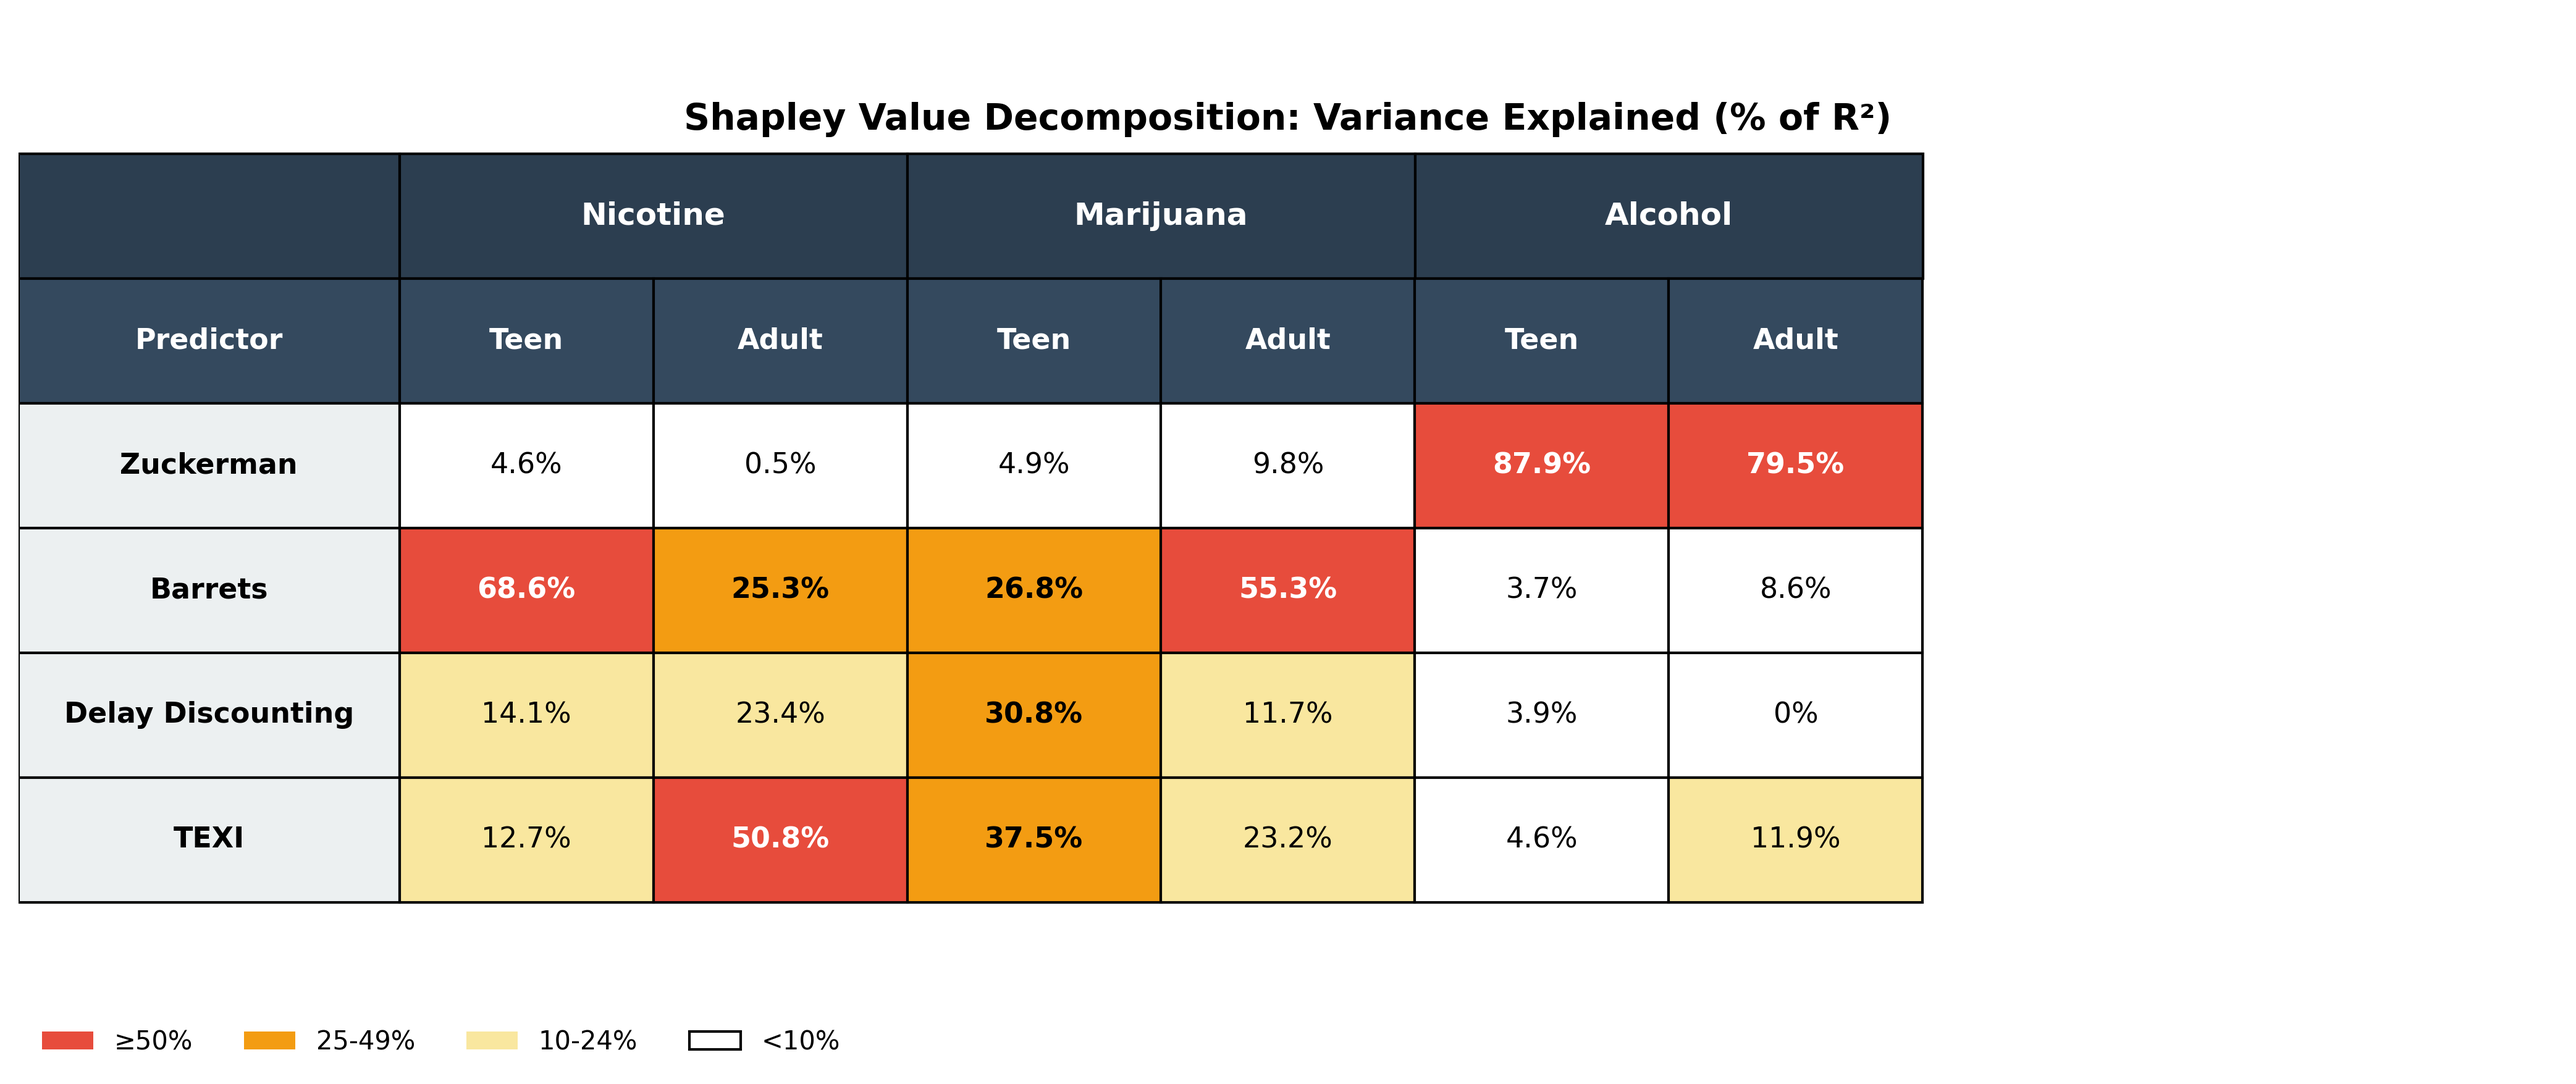
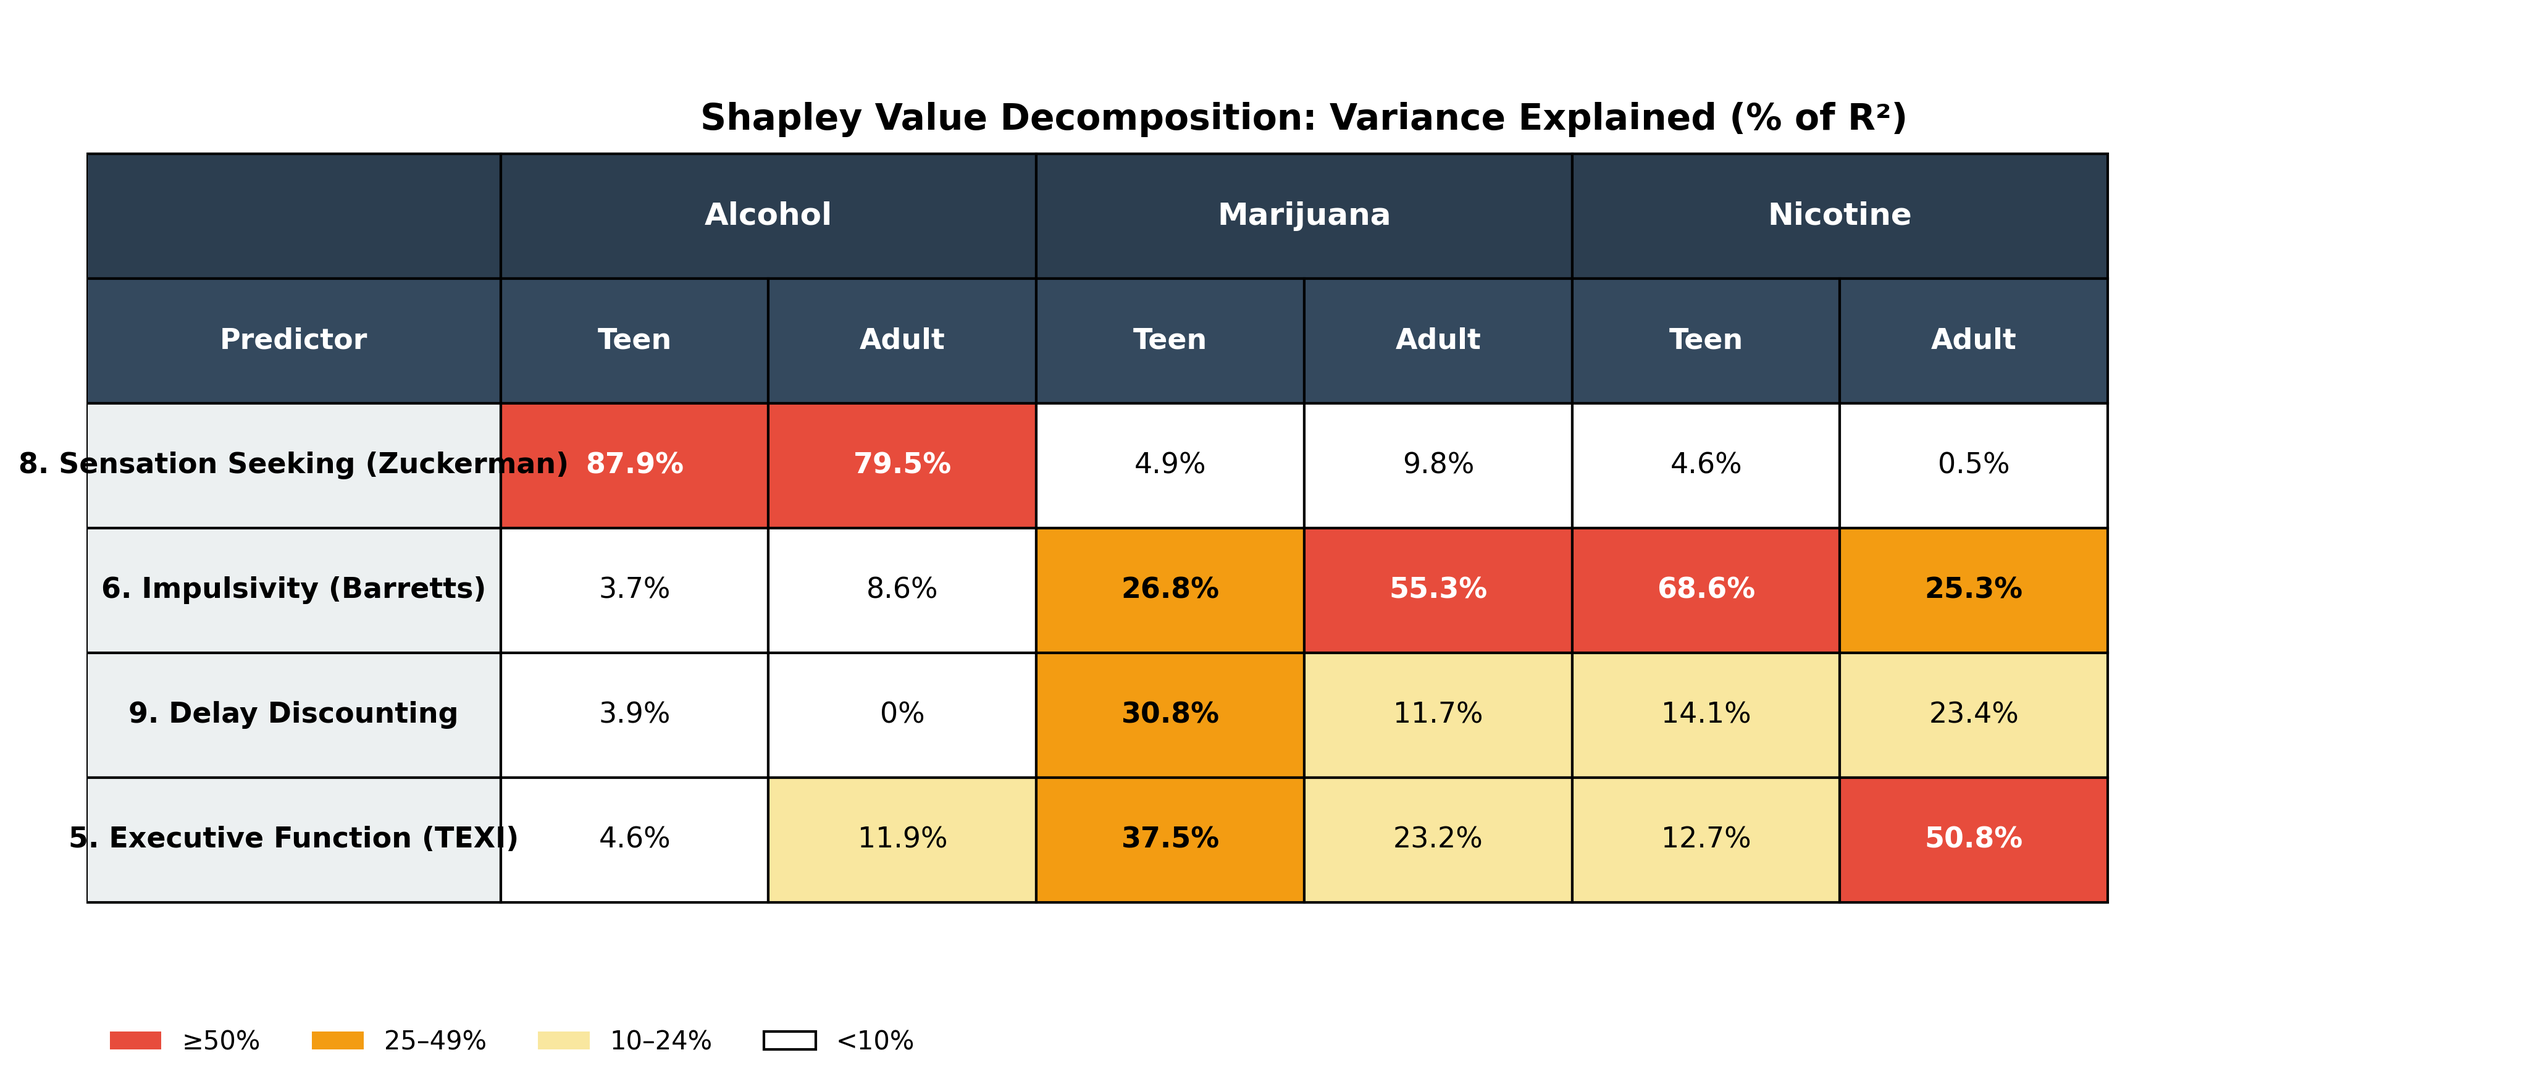
fixed K-final shapley table

diff --git a/Kirsten/Kirsten-final/ShapleyTable.py b/Kirsten/Kirsten-final/ShapleyTable.py
@@ -9,108 +9,146 @@ ax.set_xlim(0, 1)
 ax.set_ylim(0, 1)
 ax.axis('off')
 
-# Define positions
-col_widths = [0.15, 0.1, 0.1, 0.1, 0.1, 0.1, 0.1]  # 7 columns
+# Define column widths
+col_widths = [0.20, 0.13, 0.13, 0.13, 0.13, 0.13, 0.13]  
 row_height = 0.12
-start_y = 0.75  # Moved down to make room for title
+start_y = 0.75  
 
-# Helper function to draw cell
-def draw_cell(ax, x, y, width, height, text, bg_color, text_color='black', bold=False, fontsize=11):
+# Helper function
+def draw_cell(ax, x, y, width, height, text, bg_color, text_color='black', bold=False, fontsize=10):
     rect = Rectangle((x, y), width, height, facecolor=bg_color, edgecolor='black', linewidth=1)
     ax.add_patch(rect)
-    weight = 'bold' if bold else 'normal'
-    ax.text(x + width/2, y + height/2, text, ha='center', va='center', 
-            fontsize=fontsize, weight=weight, color=text_color)
+    ax.text(
+        x + width/2, y + height/2, text,
+        ha='center', va='center',
+        fontsize=fontsize, weight='bold' if bold else 'normal', color=text_color
+    )
 
-# Row 0: Drug names (merged cells)
+# ------------------------------
+# HEADER ROWS
+# ------------------------------
+
 current_x = 0
-# Empty cell for predictor column
+# Empty corner cell
 draw_cell(ax, current_x, start_y, col_widths[0], row_height, '', '#2C3E50', 'white', True, 12)
 current_x += col_widths[0]
 
-# Nicotine (spans 2 columns)
-draw_cell(ax, current_x, start_y, col_widths[1] + col_widths[2], row_height, 
-          'Nicotine', '#2C3E50', 'white', True, 12)
+# Alcohol (2 columns)
+draw_cell(ax, current_x, start_y, col_widths[1] + col_widths[2], row_height,
+          'Alcohol', '#2C3E50', 'white', True, 12)
 current_x += col_widths[1] + col_widths[2]
 
-# Marijuana (spans 2 columns)
-draw_cell(ax, current_x, start_y, col_widths[3] + col_widths[4], row_height, 
+# Marijuana (2 columns)
+draw_cell(ax, current_x, start_y, col_widths[3] + col_widths[4], row_height,
           'Marijuana', '#2C3E50', 'white', True, 12)
 current_x += col_widths[3] + col_widths[4]
 
-# Alcohol (spans 2 columns)
-draw_cell(ax, current_x, start_y, col_widths[5] + col_widths[6], row_height, 
-          'Alcohol', '#2C3E50', 'white', True, 12)
+# Nicotine (2 columns)
+draw_cell(ax, current_x, start_y, col_widths[5] + col_widths[6], row_height,
+          'Nicotine', '#2C3E50', 'white', True, 12)
 
-# Row 1: Cohort headers
-headers = ['Predictor', 'Teen', 'Adult', 'Teen', 'Adult', 'Teen', 'Adult']
+# Row 1: Teen / Adult
+headers = [
+    "Cognitive Measure",
+    "Teen", "Adult",
+    "Teen", "Adult",
+    "Teen", "Adult"
+]
+
 current_x = 0
 current_y = start_y - row_height
-for i, header in enumerate(headers):
-    draw_cell(ax, current_x, current_y, col_widths[i], row_height, header, 
-              '#34495E', 'white', True, 11)
+
+for i, h in enumerate(headers):
+    draw_cell(ax, current_x, current_y, col_widths[i], row_height, h,
+              '#34495E', 'white', True)
     current_x += col_widths[i]
 
-# Data rows
-predictors = ['Zuckerman', 'Barrets', 'Delay Discounting', 'TEXI']
-data = [
-    ['4.6%', '0.5%', '4.9%', '9.8%', '87.9%', '79.5%'],
-    ['68.6%', '25.3%', '26.8%', '55.3%', '3.7%', '8.6%'],
-    ['14.1%', '23.4%', '30.8%', '11.7%', '3.9%', '0%'],
-    ['12.7%', '50.8%', '37.5%', '23.2%', '4.6%', '11.9%']
+# ------------------------------
+# FIXED ROW ORDER (MATCHES CORRELATION TABLE)
+# ------------------------------
+
+measures = [
+    "Executive Function",
+    "Impulsivity",
+    "Sensation Seeking",
+    "Delay Discounting"
 ]
+
+# ------------------------------
+# YOUR SHAPLEY VALUES REORDERED INTO:
+# ALCOHOL (Teen, Adult), MARIJUANA (Teen, Adult), NICOTINE (Teen, Adult)
+# ------------------------------
+
+data = [
+    # Executive Function
+    ['4.6%', '11.9%', '37.5%', '23.2%', '12.7%', '50.8%'],
+
+    # Impulsivity (Barretts)
+    ['3.7%', '8.6%', '26.8%', '55.3%', '68.6%', '25.3%'],
+
+    # Sensation Seeking (Zuckerman)
+    ['87.9%', '79.5%', '4.9%', '9.8%', '4.6%', '0.5%'],
+
+    # Delay Discounting
+    ['3.9%', '0%', '30.8%', '11.7%', '14.1%', '23.4%']
+]
+
+# ------------------------------
+# COLOR CODING FUNCTION
+# ------------------------------
+
+def color_for_pct(p):
+    p = float(p.replace('%', ''))
+    if p >= 50:
+        return '#E74C3C', 'white', True
+    elif p >= 25:
+        return '#F39C12', 'black', True
+    elif p >= 10:
+        return '#F9E79F', 'black', False
+    else:
+        return '#FFFFFF', 'black', False
+
+# ------------------------------
+# DRAW DATA ROWS
+# ------------------------------
 
 current_y = start_y - 2 * row_height
-for row_idx, (predictor, row_data) in enumerate(zip(predictors, data)):
+
+for measure, row_values in zip(measures, data):
     current_x = 0
-    
-    # Predictor name
-    draw_cell(ax, current_x, current_y, col_widths[0], row_height, predictor, 
-              '#ECF0F1', 'black', True, 11)
+
+    # Left-side label
+    draw_cell(ax, current_x, current_y, col_widths[0], row_height,
+              measure, '#ECF0F1', 'black', True)
     current_x += col_widths[0]
-    
-    # Data cells
-    for col_idx, value in enumerate(row_data):
-        pct_value = float(value.strip('%'))
-        
-        # Determine color
-        if pct_value >= 50:
-            bg_color = '#E74C3C'
-            text_color = 'white'
-            bold = True
-        elif pct_value >= 25:
-            bg_color = '#F39C12'
-            text_color = 'black'
-            bold = True
-        elif pct_value >= 10:
-            bg_color = '#F9E79F'
-            text_color = 'black'
-            bold = False
-        else:
-            bg_color = '#FFFFFF'
-            text_color = 'black'
-            bold = False
-        
-        draw_cell(ax, current_x, current_y, col_widths[col_idx + 1], row_height, 
-                  value, bg_color, text_color, bold, 11)
-        current_x += col_widths[col_idx + 1]
-    
+
+    # Values
+    for i, val in enumerate(row_values):
+        bg, text_c, bold = color_for_pct(val)
+        draw_cell(ax, current_x, current_y, col_widths[i+1], row_height,
+                  val, bg, text_c, bold)
+        current_x += col_widths[i+1]
+
     current_y -= row_height
 
-# Add title
-ax.text(0.5, 0.92, 'Shapley Value Decomposition: Variance Explained (% of R²)', 
+# ------------------------------
+# TITLE + LEGEND
+# ------------------------------
+
+ax.text(0.5, 0.92,
+        'Shapley Value Decomposition: Variance Explained (% of R²)',
         ha='center', va='top', fontsize=14, weight='bold', transform=ax.transAxes)
 
-# Add legend
 legend_elements = [
-    mpatches.Patch(facecolor='#E74C3C', label='≥50%'),
-    mpatches.Patch(facecolor='#F39C12', label='25-49%'),
-    mpatches.Patch(facecolor='#F9E79F', label='10-24%'),
-    mpatches.Patch(facecolor='#FFFFFF', edgecolor='black', label='<10%')
+    mpatches.Patch(facecolor='#E74C3C', label='≥ 50%'),
+    mpatches.Patch(facecolor='#F39C12', label='25–49%'),
+    mpatches.Patch(facecolor='#F9E79F', label='10–24%'),
+    mpatches.Patch(facecolor='#FFFFFF', edgecolor='black', label='< 10%')
 ]
-ax.legend(handles=legend_elements, loc='upper left', bbox_to_anchor=(0, 0.05), 
-         ncol=4, frameon=False, fontsize=10)
+
+ax.legend(handles=legend_elements, loc='upper left',
+          bbox_to_anchor=(0, 0.05), frameon=False, ncol=4, fontsize=10)
 
 plt.tight_layout()
-plt.savefig('shapley_table.png', dpi=300, bbox_inches='tight', facecolor='white')
+plt.savefig('shapley_table_fixed.png', dpi=300, bbox_inches='tight', facecolor='white')
 plt.show()
